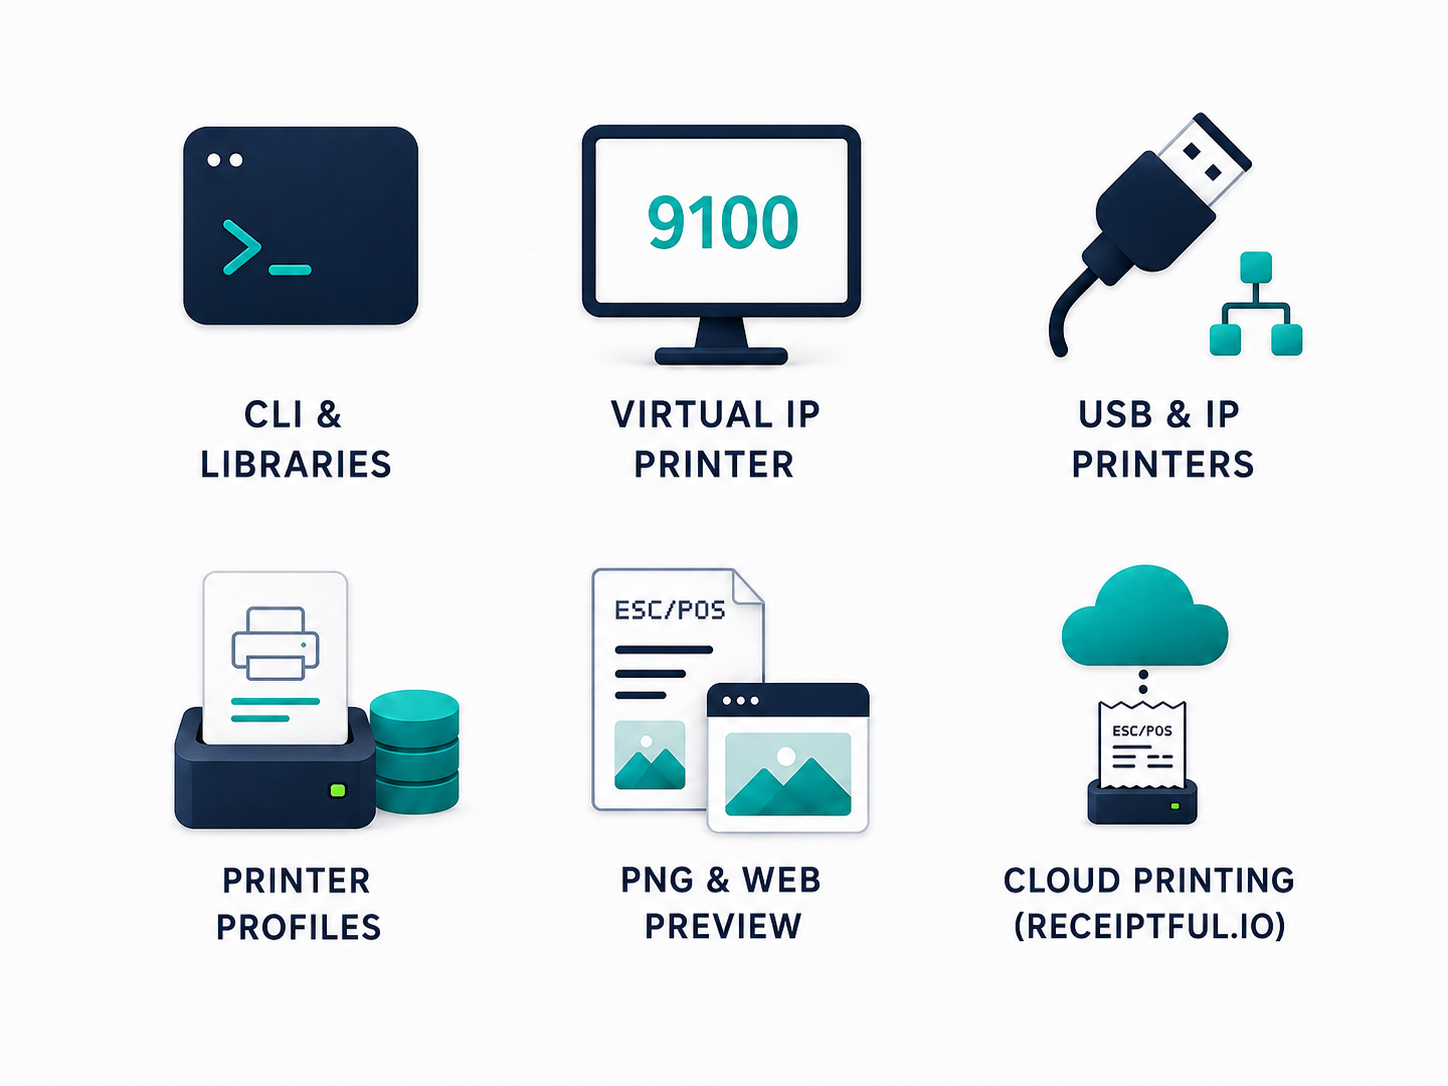
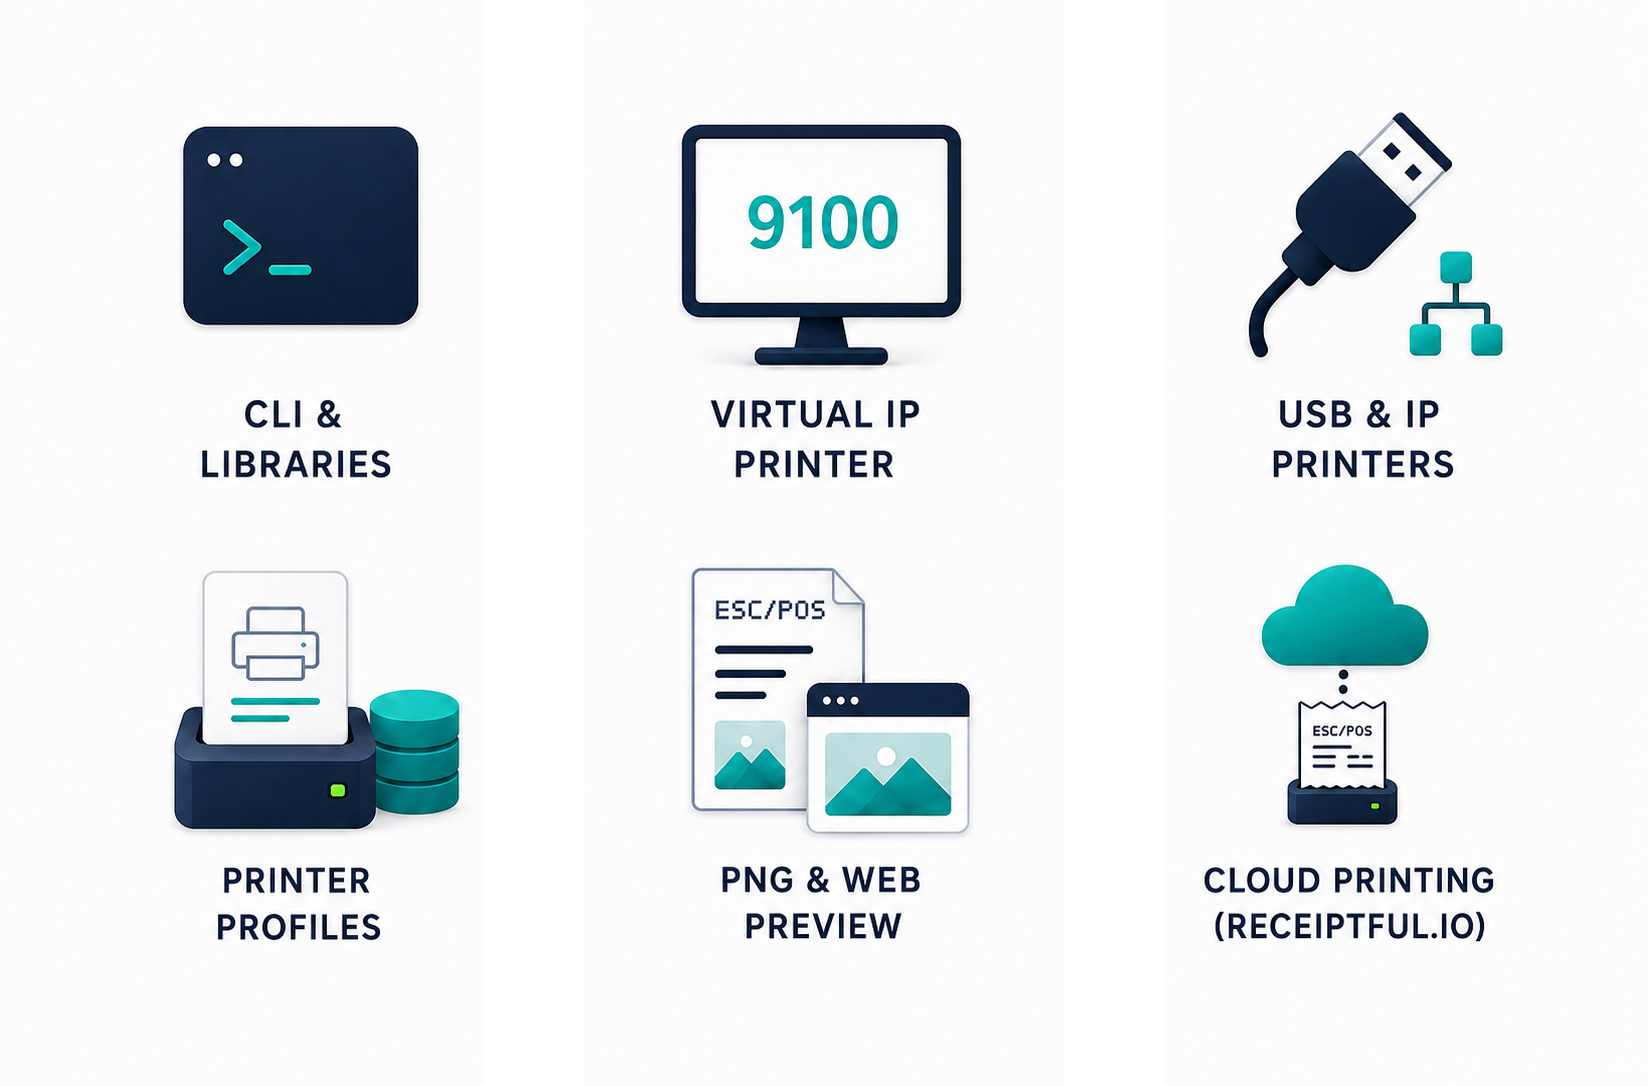
docs: refine feature overview

diff --git a/README.md b/README.md
@@ -15,14 +15,14 @@ physical USB and network printers from the same CLI.
 ## Your complete ESC/POS Toolbox
 
 <p align="center">
-  <img src="docs/assets/readme/features.png" alt="Overview of ESCPost's six core features" width="600">
+  <img src="docs/assets/readme/features.png" alt="Overview of ESCPost's six core features" width="800">
 </p>
 
 | Feature | What it provides |
 |---|---|
 | **CLI and libraries** | A Rust CLI, reusable crates for processing ESC/POS data and printer profiles, and a Python API. |
-| **Virtual IP printer** | Redirect an ERP or POS application to ESCPost as a RAW TCP network printer, then capture and inspect its print jobs in the browser workbench. |
-| **USB and IP printers** | Named USB and RAW TCP targets with discovery, connection checks, and delivery of the exact source bytes. |
+| **Virtual IP printer** | Redirect an ERP or POS application to ESCPost as a RAW TCP network printer, then capture and inspect its print jobs in your browser, in real time. |
+| **USB and IP printers** | Automatically discover connected USB printers, configure IP network printers, and test and calibrate each printer's profile. |
 | **Printer profiles** | Device-specific geometry, capabilities, defaults, and calibrated behavior. |
 | **PNG and web preview** | Printer-resolution PNG previews, multi-sheet jobs, integer zoom, antialiasing, and file watching. |
 | **Cloud printing** | Planned native integration with [Receiptful](https://receiptful.io); today, Receiptful is available separately for thermal-printer delivery, job history, and managed cloud printing. |
@@ -42,7 +42,8 @@ escpost render receipt.bin \
   --non-interactive
 ```
 
-Use the embedded browser workbench and rerender when the source changes:
+Preview receipts and labels in your browser and rerender when the source
+changes:
 
 ```bash
 escpost render receipt.hex --profile REFERENCE --web --watch
@@ -61,10 +62,10 @@ escpost serve
 
 ## Supported ESC/POS features
 
-ESCPost currently handles profile-driven text and layout, common single-byte
-code pages, bit and raster images, native one-dimensional barcodes, GS1-128,
-automatic Code 128, Model 2 QR codes, feeds, and cuts. Supported cuts produce
-separate ordered sheets.
+ESCPost currently implements all commonly used ESC/POS commands, including
+profile-driven text and layout, common single-byte code pages, bit and raster
+images, native one-dimensional barcodes, GS1-128, automatic Code 128, Model 2
+QR codes, feeds, and cuts. Supported cuts produce separate ordered sheets.
 
 Previews reproduce printable geometry and precise placement at the printer's
 native resolution—not paper texture or an exact reproduction of proprietary
